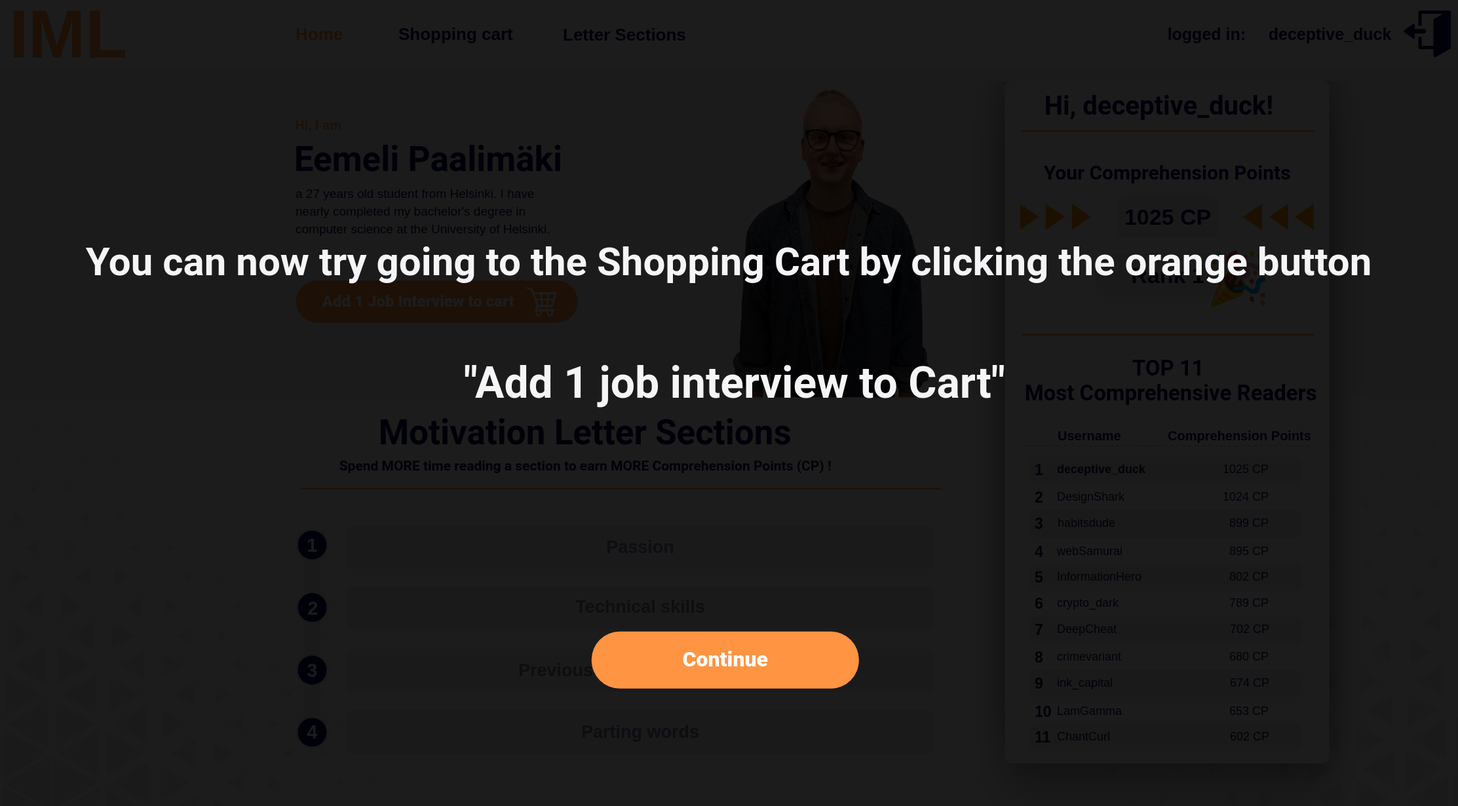
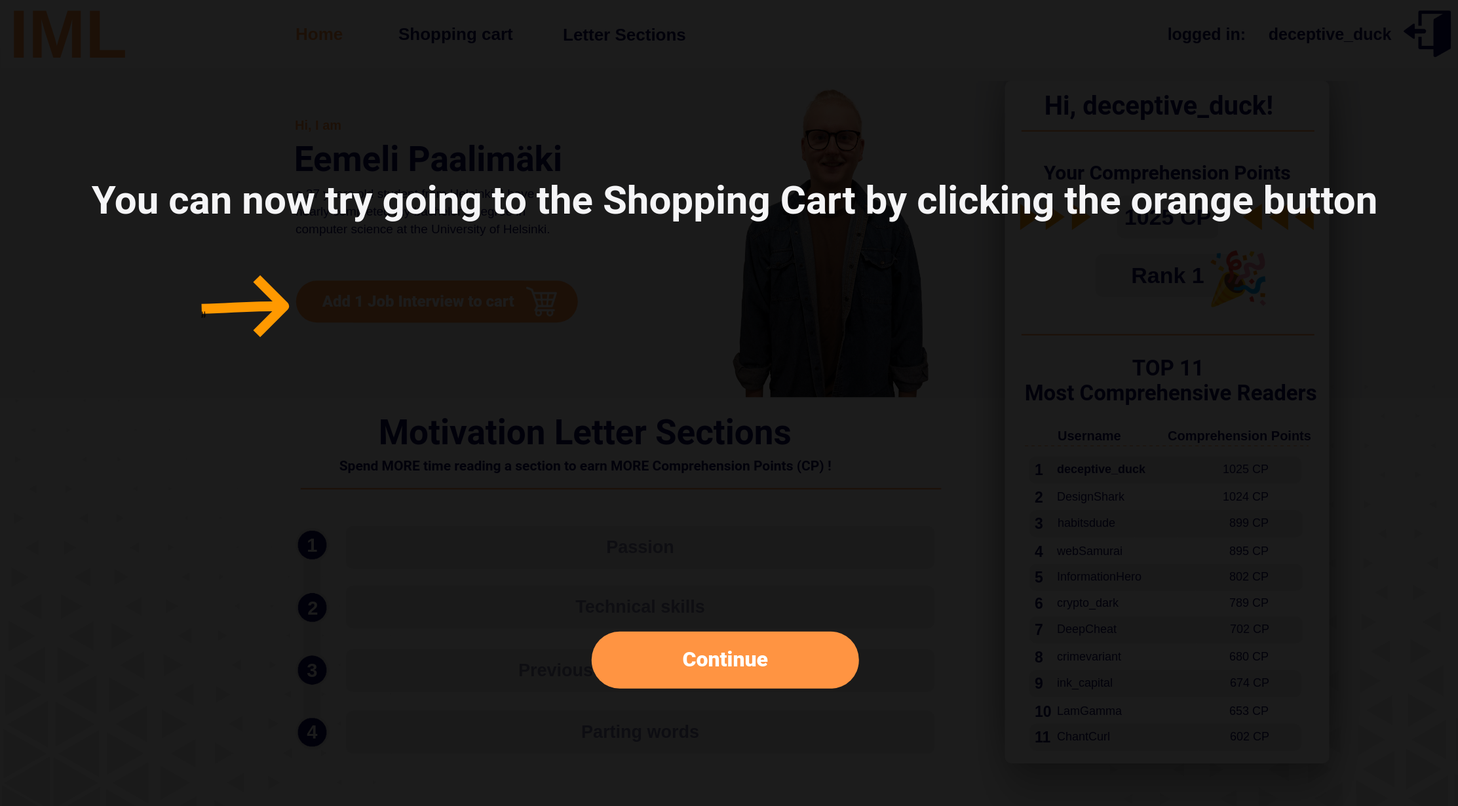
Add ending page

Changed region(s): [[0.062, 0.2163, 0.9613, 0.278], [0.062, 0.3089, 0.9613, 0.4325], [0.3101, 0.4325, 0.6822, 0.4943]]

diff --git a/index.html b/index.html
@@ -1,2 +1,2 @@
 <html xmlns="http://www.w3.org/1999/xhtml" xmlns:p="http://www.evolus.vn/Namespace/Pencil" xmlns:html="http://www.w3.org/1999/xhtml"><head><meta http-equiv="Content-Type" content="text/html; charset=UTF-8" />
-<title>mockup-project</title><link rel="stylesheet" href="Resources/style.css" /><script type="application/javascript" src="Resources/script.js"></script></head><body><h1 id="documentTitle">mockup-project</h1><p id="documentMetadata">Exported at: Mon Jan 22 2024 19:30:17 GMT+0200 (Eastern European Standard Time)</p><div class="Page" id="starting_page_page"><h2>Starting page</h2><div class="ImageContainer"><img src="pages/starting_page.png" width="2222" height="1230" usemap="#map_starting_page" /></div><map name="map_starting_page"><area shape="rect" coords="946.8125,771.5625,1275.5625,901.5625" href="#initialwords_page" title="Go to page 'initial_words'" /></map></div><div class="Page" id="initialwords_page"><h2>initial_words</h2><div class="ImageContainer"><img src="pages/initialwords.png" width="2222" height="1230" usemap="#map_initialwords" /></div><map name="map_initialwords"><area shape="rect" coords="930.9375,823.6875,1422.9375,869.6875" href="#initialwordscontinue_page" title="Go to page 'initial_words_continue'" /><area shape="rect" coords="838.75,812.1875,908.8125,882.25" href="#initialwordscontinue_page" title="Go to page 'initial_words_continue'" /></map></div><div class="Page" id="initialwordscontinue_page"><h2>initial_words_continue</h2><div class="ImageContainer"><img src="pages/initialwordscontinue.png" width="2222" height="1230" usemap="#map_initialwordscontinue" /></div><map name="map_initialwordscontinue"><area shape="rect" coords="846.48876953125,822.22314453125,899.608764648438,872.783142089844" href="#initialwords_page" title="Go to page 'initial_words'" /><area shape="rect" coords="930.9375,823.6875,1422.9375,869.6875" href="#initialwords_page" title="Go to page 'initial_words'" /><area shape="rect" coords="984.25,978,1236.75,1079.25" href="#createanewuser_page" title="Go to page 'create_a_new_user'" /></map></div><div class="Page" id="createanewuser_page"><h2>create_a_new_user</h2><div class="ImageContainer"><img src="pages/createanewuser.png" width="2222" height="1230" usemap="#map_createanewuser" /></div><map name="map_createanewuser"><area shape="rect" coords="770.625,822.5,1180.625,861.5" href="#createanewuserautofill_page" title="Go to page 'create_a_new_user_auto_fill'" /><area shape="rect" coords="771.625,722.5,1181.625,761.5" href="#createanewuserautofill_page" title="Go to page 'create_a_new_user_auto_fill'" /><area shape="rect" coords="771.625,630.5,1181.625,669.5" href="#createanewuserautofill_page" title="Go to page 'create_a_new_user_auto_fill'" /><area shape="rect" coords="771.625,540.5,1181.625,579.5" href="#createanewuserautofill_page" title="Go to page 'create_a_new_user_auto_fill'" /><area shape="rect" coords="771.625,448.5,1181.625,487.5" href="#createanewuserautofill_page" title="Go to page 'create_a_new_user_auto_fill'" /><area shape="rect" coords="771.625,348.5,1181.625,387.5" href="#createanewuserautofill_page" title="Go to page 'create_a_new_user_auto_fill'" /><area shape="rect" coords="771.625,256.5,1181.625,295.5" href="#createanewuserautofill_page" title="Go to page 'create_a_new_user_auto_fill'" /></map></div><div class="Page" id="createanewuserautofill_page"><h2>create_a_new_user_auto_fill</h2><div class="ImageContainer"><img src="pages/createanewuserautofill.png" width="2222" height="1230" usemap="#map_createanewuserautofill" /></div><map name="map_createanewuserautofill"><area shape="rect" coords="1201.5,247.5,1413.5,327.5" href="#createanewuserfilled_page" title="Go to page 'create_a_new_user_FILLED'" /></map></div><div class="Page" id="createanewuserfilled_page"><h2>create_a_new_user_FILLED</h2><div class="ImageContainer"><img src="pages/createanewuserfilled.png" width="2222" height="1230" usemap="#map_createanewuserfilled" /></div><map name="map_createanewuserfilled"><area shape="rect" coords="829.48876953125,929.22314453125,866.48876953125,961.22314453125" href="#initialwords_page" title="Go to page 'initial_words'" /><area shape="rect" coords="897.9375,907.6875,1389.9375,981.6875" href="#createanewuserfilleduncheck_page" title="Go to page 'create_a_new_user_FILLED_uncheck'" /><area shape="rect" coords="817.75,917.1875,877.75,972.1875" href="#createanewuserfilleduncheck_page" title="Go to page 'create_a_new_user_FILLED_uncheck'" /><area shape="rect" coords="986.25,1021,1238.75,1122.25" href="#log_in_page" title="Go to page 'log in'" /></map></div><div class="Page" id="createanewuserfilleduncheck_page"><h2>create_a_new_user_FILLED_uncheck</h2><div class="ImageContainer"><img src="pages/createanewuserfilleduncheck.png" width="2222" height="1230" usemap="#map_createanewuserfilleduncheck" /></div><map name="map_createanewuserfilleduncheck"><area shape="rect" coords="897.9375,907.6875,1389.9375,981.6875" href="#createanewuserfilled_page" title="Go to page 'create_a_new_user_FILLED'" /><area shape="rect" coords="817.75,917.1875,877.75,972.1875" href="#createanewuserfilled_page" title="Go to page 'create_a_new_user_FILLED'" /><area shape="rect" coords="986.25,1021,1238.75,1122.25" href="#log_in_page" title="Go to page 'log in'" /></map></div><div class="Page" id="log_in_page"><h2>log in</h2><div class="ImageContainer"><img src="pages/log_in.png" width="2222" height="1230" usemap="#map_log_in" /></div><map name="map_log_in"><area shape="rect" coords="984.25,708,1236.75,809.25" href="#tutorial1_page" title="Go to page 'Tutorial1'" /></map></div><div class="Page" id="tutorial1_page"><h2>Tutorial1</h2><div class="ImageContainer"><img src="pages/tutorial1.png" width="2225" height="1230" usemap="#map_tutorial1" /></div><map name="map_tutorial1"><area shape="rect" coords="864.75,629,1380.75,730" href="#tutorial2_page" title="Go to page 'Tutorial2'" /></map></div><div class="Page" id="tutorial2_page"><h2>Tutorial2</h2><div class="ImageContainer"><img src="pages/tutorial2.png" width="2225" height="1230" usemap="#map_tutorial2" /></div><map name="map_tutorial2"><area shape="rect" coords="1593.75,253,2109.75,354" href="#tutorial3_page" title="Go to page 'Tutorial3'" /></map></div><div class="Page" id="tutorial3_page"><h2>Tutorial3</h2><div class="ImageContainer"><img src="pages/tutorial3.png" width="2225" height="1230" usemap="#map_tutorial3" /></div><map name="map_tutorial3"><area shape="rect" coords="626.75,637,1142.75,738" href="#tutorial4_page" title="Go to page 'Tutorial4'" /></map></div><div class="Page" id="tutorial4_page"><h2>Tutorial4</h2><div class="ImageContainer"><img src="pages/tutorial4.png" width="2225" height="1230" usemap="#map_tutorial4" /></div><map name="map_tutorial4"><area shape="rect" coords="1317.75,916,1833.75,1017" href="#tutorial5_page" title="Go to page 'Tutorial5'" /></map></div><div class="Page" id="tutorial5_page"><h2>Tutorial5</h2><div class="ImageContainer"><img src="pages/tutorial5.png" width="2225" height="1230" usemap="#map_tutorial5" /></div><map name="map_tutorial5"><area shape="rect" coords="1432.75,690,1948.75,791" href="#tutorial6_page" title="Go to page 'Tutorial6'" /></map></div><div class="Page" id="tutorial6_page"><h2>Tutorial6</h2><div class="ImageContainer"><img src="pages/tutorial6.png" width="2225" height="1230" usemap="#map_tutorial6" /></div><map name="map_tutorial6"><area shape="rect" coords="832.75,709,1348.75,810" href="#home1_page" title="Go to page 'Home1'" /></map></div><div class="Page" id="home1_page"><h2>Home1</h2><div class="ImageContainer"><img src="pages/home1.png" width="2225" height="1230" usemap="#map_home1" /></div><map name="map_home1"><area shape="rect" coords="525,799.75,1429,870.75" href="#letter_passion_page" title="Go to page 'Letter Passion'" /></map></div><div class="Page" id="letter_passion_page"><h2>Letter Passion</h2><div class="ImageContainer"><img src="pages/letter_passion.png" width="2225" height="1230" usemap="#map_letter_passion" /></div><map name="map_letter_passion"><area shape="rect" coords="980.75,1090.25,1251,1160.25" href="#home21_page" title="Go to page 'Home2.1'" /></map></div><div class="Page" id="home21_page"><h2>Home2.1</h2><div class="ImageContainer"><img src="pages/home21.png" width="2225" height="1230" usemap="#map_home21" /></div><map name="map_home21"><area shape="rect" coords="956.75,888.75,1370.75,981.25" href="#home22_page" title="Go to page 'Home2.2'" /></map></div><div class="Page" id="home22_page"><h2>Home2.2</h2><div class="ImageContainer"><img src="pages/home22.png" width="2225" height="1230" usemap="#map_home22" /></div><map name="map_home22"><area shape="rect" coords="525,890.75,1429,961.75" href="#letter_tech_page" title="Go to page 'Letter Tech'" /></map></div><div class="Page" id="letter_tech_page"><h2>Letter Tech</h2><div class="ImageContainer"><img src="pages/letter_tech.png" width="2225" height="1230" usemap="#map_letter_tech" /></div><map name="map_letter_tech"><area shape="rect" coords="980.75,1090.25,1251,1160.25" href="#home31_page" title="Go to page 'Home3.1'" /></map></div><div class="Page" id="home31_page"><h2>Home3.1</h2><div class="ImageContainer"><img src="pages/home31.png" width="2225" height="1230" usemap="#map_home31" /></div><map name="map_home31"><area shape="rect" coords="930.75,812.75,1344.75,905.25" href="#home32_page" title="Go to page 'Home3.2'" /></map></div><div class="Page" id="home32_page"><h2>Home3.2</h2><div class="ImageContainer"><img src="pages/home32.png" width="2225" height="1230" usemap="#map_home32" /></div><map name="map_home32"><area shape="rect" coords="525,987.75,1429,1058.75" href="#letter_soft_page" title="Go to page 'Letter Soft'" /></map></div><div class="Page" id="letter_soft_page"><h2>Letter Soft</h2><div class="ImageContainer"><img src="pages/letter_soft.png" width="2225" height="1230" usemap="#map_letter_soft" /></div><map name="map_letter_soft"><area shape="rect" coords="980.75,1090.25,1251,1160.25" href="#home41_page" title="Go to page 'Home4.1'" /></map></div><div class="Page" id="home41_page"><h2>Home4.1</h2><div class="ImageContainer"><img src="pages/home41.png" width="2225" height="1230" usemap="#map_home41" /></div><map name="map_home41"><area shape="rect" coords="908.75,799.75,1322.75,892.25" href="#home42_page" title="Go to page 'Home4.2'" /></map></div><div class="Page" id="home42_page"><h2>Home4.2</h2><div class="ImageContainer"><img src="pages/home42.png" width="2225" height="1230" usemap="#map_home42" /></div><map name="map_home42"><area shape="rect" coords="525,1081.75,1429,1152.75" href="#letter_end_page" title="Go to page 'Letter End'" /></map></div><div class="Page" id="letter_end_page"><h2>Letter End</h2><div class="ImageContainer"><img src="pages/letter_end.png" width="2225" height="1230" usemap="#map_letter_end" /></div><map name="map_letter_end"><area shape="rect" coords="980.75,1090.25,1251,1160.25" href="#home51_page" title="Go to page 'Home5.1'" /></map></div><div class="Page" id="home51_page"><h2>Home5.1</h2><div class="ImageContainer"><img src="pages/home51.png" width="2225" height="1230" usemap="#map_home51" /></div><map name="map_home51"><area shape="rect" coords="899.75,960.75,1313.75,1053.25" href="#home52_page" title="Go to page 'Home5.2'" /></map></div><div class="Page" id="home52_page"><h2>Home5.2</h2><div class="ImageContainer"><img src="pages/home52.png" width="2225" height="1230" usemap="#map_home52" /></div><map name="map_home52"><area shape="rect" coords="899.75,960.75,1313.75,1053.25" href="#home53_page" title="Go to page 'Home5.3'" /></map></div><div class="Page" id="home53_page"><h2>Home5.3</h2><div class="ImageContainer"><img src="pages/home53.png" width="2225" height="1230" usemap="#map_home53" /></div><map name="map_home53"><area shape="rect" coords="525,1081.75,1429,1152.75" href="#letter_end_done_page" title="Go to page 'Letter End DONE'" /><area shape="rect" coords="525,987.75,1429,1058.75" href="#letter_soft_done_page" title="Go to page 'Letter Soft DONE'" /><area shape="rect" coords="525,890.75,1429,961.75" href="#letter_tech_done_page" title="Go to page 'Letter Tech DONE'" /><area shape="rect" coords="525,799.75,1429,870.75" href="#letter_passion_done_page" title="Go to page 'Letter Passion DONE'" /><area shape="rect" coords="448.75,425.25,884.75,495.25" href="#shopping_cart_page" title="Go to page 'Shopping Cart'" /></map></div><div class="Page" id="letter_passion_done_page"><h2>Letter Passion DONE</h2><div class="ImageContainer"><img src="pages/letter_passion_done.png" width="2225" height="1230" usemap="#map_letter_passion_done" /></div><map name="map_letter_passion_done"><area shape="rect" coords="980.75,1090.25,1251,1160.25" href="#home53_page" title="Go to page 'Home5.3'" /></map></div><div class="Page" id="letter_tech_done_page"><h2>Letter Tech DONE</h2><div class="ImageContainer"><img src="pages/letter_tech_done.png" width="2225" height="1230" usemap="#map_letter_tech_done" /></div><map name="map_letter_tech_done"><area shape="rect" coords="980.75,1090.25,1251,1160.25" href="#home53_page" title="Go to page 'Home5.3'" /></map></div><div class="Page" id="letter_soft_done_page"><h2>Letter Soft DONE</h2><div class="ImageContainer"><img src="pages/letter_soft_done.png" width="2225" height="1230" usemap="#map_letter_soft_done" /></div><map name="map_letter_soft_done"><area shape="rect" coords="980.75,1090.25,1251,1160.25" href="#home53_page" title="Go to page 'Home5.3'" /></map></div><div class="Page" id="letter_end_done_page"><h2>Letter End DONE</h2><div class="ImageContainer"><img src="pages/letter_end_done.png" width="2225" height="1230" usemap="#map_letter_end_done" /></div><map name="map_letter_end_done"><area shape="rect" coords="980.75,1090.25,1251,1160.25" href="#home53_page" title="Go to page 'Home5.3'" /></map></div><div class="Page" id="home54_page"><h2>Home5.4</h2><div class="ImageContainer"><img src="pages/home54.png" width="2225" height="1230" usemap="#map_home54" /></div><map name="map_home54"><area shape="rect" coords="892.75,752.75,1306.75,845.25" href="#home55_page" title="Go to page 'Home5.5'" /><area shape="rect" coords="2139.125,12.625,2217.25,90.7500152587891" href="#logout1_page" title="Go to page 'Logout1'" /></map></div><div class="Page" id="home55_page"><h2>Home5.5</h2><div class="ImageContainer"><img src="pages/home55.png" width="2225" height="1230" usemap="#map_home55" /></div><map name="map_home55"><area shape="rect" coords="525,1081.75,1429,1152.75" href="#letter_end_done_page" title="Go to page 'Letter End DONE'" /><area shape="rect" coords="525,987.75,1429,1058.75" href="#letter_soft_done_page" title="Go to page 'Letter Soft DONE'" /><area shape="rect" coords="525,890.75,1429,961.75" href="#letter_tech_done_page" title="Go to page 'Letter Tech DONE'" /><area shape="rect" coords="525,799.75,1429,870.75" href="#letter_passion_done_page" title="Go to page 'Letter Passion DONE'" /><area shape="rect" coords="448.75,425.25,884.75,495.25" href="#shopping_cart_page" title="Go to page 'Shopping Cart'" /><area shape="rect" coords="2139.125,12.625,2217.25,90.7500152587891" href="#logout1_page" title="Go to page 'Logout1'" /></map></div><div class="Page" id="shopping_cart_page"><h2>Shopping Cart</h2><div class="ImageContainer"><img src="pages/shopping_cart.png" width="2225" height="1230" usemap="#map_shopping_cart" /></div><map name="map_shopping_cart"><area shape="rect" coords="1179.75,377.25,1495.75,447.25" href="#cart_delete_page" title="Go to page 'Cart delete'" /><area shape="rect" coords="1582.75,476,1883.75,537" href="#normal_checkout_page" title="Go to page 'Normal Checkout'" /><area shape="rect" coords="2139.125,12.625,2217.25,90.7500152587891" href="#logout1_page" title="Go to page 'Logout1'" /></map></div><div class="Page" id="normal_checkout_page"><h2>Normal Checkout</h2><div class="ImageContainer"><img src="pages/normal_checkout.png" width="2225" height="1230" usemap="#map_normal_checkout" /></div><map name="map_normal_checkout"><area shape="rect" coords="900.5,780.75,1315.25,863" href="#purchased_page" title="Go to page 'Purchased'" /><area shape="rect" coords="671.5,1130.3125,735,1164.3125" href="#shopping_cart_page" title="Go to page 'Shopping Cart'" /></map></div><div class="Page" id="cart_delete_page"><h2>Cart delete</h2><div class="ImageContainer"><img src="pages/cart_delete.png" width="2225" height="1230" usemap="#map_cart_delete" /></div><map name="map_cart_delete"><area shape="rect" coords="671.5,1143.3125,809.231994628906,1177.3125" href="#deleted_item_page" title="Go to page 'Deleted Item'" /><area shape="rect" coords="947.75,825.25,1263.75,895.25" href="#shopping_cart_page" title="Go to page 'Shopping Cart'" /></map></div><div class="Page" id="deleted_item_page"><h2>Deleted Item</h2><div class="ImageContainer"><img src="pages/deleted_item.png" width="2225" height="1230" usemap="#map_deleted_item" /></div><map name="map_deleted_item"><area shape="rect" coords="1501.75,1073.25,1742.75,1143.25" href="#shopping_cart_page" title="Go to page 'Shopping Cart'" /><area shape="rect" coords="1582.75,476,1883.75,537" href="#deleted_checkout_page" title="Go to page 'Deleted Checkout'" /><area shape="rect" coords="2139.125,12.625,2217.25,90.7500152587891" href="#logout1_page" title="Go to page 'Logout1'" /></map></div><div class="Page" id="deleted_checkout_page"><h2>Deleted Checkout</h2><div class="ImageContainer"><img src="pages/deleted_checkout.png" width="2225" height="1230" usemap="#map_deleted_checkout" /></div><map name="map_deleted_checkout"><area shape="rect" coords="893.5,623.75,1308.25,706" href="#purchased_page" title="Go to page 'Purchased'" /><area shape="rect" coords="676.5,1143.3125,740,1177.3125" href="#deleted_item_page" title="Go to page 'Deleted Item'" /><area shape="rect" coords="1501.75,1073.25,1742.75,1143.25" href="#shopping_cart_page" title="Go to page 'Shopping Cart'" /></map></div><div class="Page" id="purchased_page"><h2>Purchased</h2><div class="ImageContainer"><img src="pages/purchased.png" width="2225" height="1230" usemap="#map_purchased" /></div><map name="map_purchased"><area shape="rect" coords="796.75,1014,1392.75,1130" href="#home54_page" title="Go to page 'Home5.4'" /></map></div><div class="Page" id="logout1_page"><h2>Logout1</h2><div class="ImageContainer"><img src="pages/logout1.png" width="2225" height="1230" usemap="#map_logout1" /></div><map name="map_logout1"><area shape="rect" coords="884.5,380.3125,951,414.3125" href="#logout2_page" title="Go to page 'Logout2'" /><area shape="rect" coords="1100.75,355.5,1466,439.25" href="#home55_page" title="Go to page 'Home5.5'" /></map></div><div class="Page" id="logout2_page"><h2>Logout2</h2><div class="ImageContainer"><img src="pages/logout2.png" width="2225" height="1230" usemap="#map_logout2" /></div><map name="map_logout2"><area shape="rect" coords="924.5,431.3125,991,465.3125" href="#logout3_page" title="Go to page 'Logout3'" /><area shape="rect" coords="1028.75,343.75,1516.5,451.25" href="#home55_page" title="Go to page 'Home5.5'" /></map></div><div class="Page" id="logout3_page"><h2>Logout3</h2><div class="ImageContainer"><img src="pages/logout3.png" width="2225" height="1230" usemap="#map_logout3" /></div><map name="map_logout3"><area shape="rect" coords="935.75,309.25,1714.75,484.25" href="#home55_page" title="Go to page 'Home5.5'" /><area shape="rect" coords="905.5,320.3125,972,354.3125" href="#starting_page_page" title="Go to page 'Starting page'" /></map></div></body></html>
+<title>mockup-project</title><link rel="stylesheet" href="Resources/style.css" /><script type="application/javascript" src="Resources/script.js"></script></head><body><h1 id="documentTitle">mockup-project</h1><p id="documentMetadata">Exported at: Tue Jan 23 2024 18:44:38 GMT+0200 (Eastern European Standard Time)</p><div class="Page" id="starting_page_page"><h2>Starting page</h2><div class="ImageContainer"><img src="pages/starting_page.png" width="2222" height="1230" usemap="#map_starting_page" /></div><map name="map_starting_page"><area shape="rect" coords="946.8125,771.5625,1275.5625,901.5625" href="#initialwords_page" title="Go to page 'initial_words'" /></map></div><div class="Page" id="initialwords_page"><h2>initial_words</h2><div class="ImageContainer"><img src="pages/initialwords.png" width="2222" height="1230" usemap="#map_initialwords" /></div><map name="map_initialwords"><area shape="rect" coords="930.9375,823.6875,1422.9375,869.6875" href="#initialwordscontinue_page" title="Go to page 'initial_words_continue'" /><area shape="rect" coords="838.75,812.1875,908.8125,882.25" href="#initialwordscontinue_page" title="Go to page 'initial_words_continue'" /></map></div><div class="Page" id="initialwordscontinue_page"><h2>initial_words_continue</h2><div class="ImageContainer"><img src="pages/initialwordscontinue.png" width="2222" height="1230" usemap="#map_initialwordscontinue" /></div><map name="map_initialwordscontinue"><area shape="rect" coords="846.48876953125,822.22314453125,899.608764648438,872.783142089844" href="#initialwords_page" title="Go to page 'initial_words'" /><area shape="rect" coords="930.9375,823.6875,1422.9375,869.6875" href="#initialwords_page" title="Go to page 'initial_words'" /><area shape="rect" coords="984.25,978,1236.75,1079.25" href="#createanewuser_page" title="Go to page 'create_a_new_user'" /></map></div><div class="Page" id="createanewuser_page"><h2>create_a_new_user</h2><div class="ImageContainer"><img src="pages/createanewuser.png" width="2222" height="1230" usemap="#map_createanewuser" /></div><map name="map_createanewuser"><area shape="rect" coords="770.625,822.5,1180.625,861.5" href="#createanewuserautofill_page" title="Go to page 'create_a_new_user_auto_fill'" /><area shape="rect" coords="771.625,722.5,1181.625,761.5" href="#createanewuserautofill_page" title="Go to page 'create_a_new_user_auto_fill'" /><area shape="rect" coords="771.625,630.5,1181.625,669.5" href="#createanewuserautofill_page" title="Go to page 'create_a_new_user_auto_fill'" /><area shape="rect" coords="771.625,540.5,1181.625,579.5" href="#createanewuserautofill_page" title="Go to page 'create_a_new_user_auto_fill'" /><area shape="rect" coords="771.625,448.5,1181.625,487.5" href="#createanewuserautofill_page" title="Go to page 'create_a_new_user_auto_fill'" /><area shape="rect" coords="771.625,348.5,1181.625,387.5" href="#createanewuserautofill_page" title="Go to page 'create_a_new_user_auto_fill'" /><area shape="rect" coords="771.625,256.5,1181.625,295.5" href="#createanewuserautofill_page" title="Go to page 'create_a_new_user_auto_fill'" /></map></div><div class="Page" id="createanewuserautofill_page"><h2>create_a_new_user_auto_fill</h2><div class="ImageContainer"><img src="pages/createanewuserautofill.png" width="2222" height="1230" usemap="#map_createanewuserautofill" /></div><map name="map_createanewuserautofill"><area shape="rect" coords="1201.5,247.5,1413.5,327.5" href="#createanewuserfilled_page" title="Go to page 'create_a_new_user_FILLED'" /></map></div><div class="Page" id="createanewuserfilled_page"><h2>create_a_new_user_FILLED</h2><div class="ImageContainer"><img src="pages/createanewuserfilled.png" width="2222" height="1230" usemap="#map_createanewuserfilled" /></div><map name="map_createanewuserfilled"><area shape="rect" coords="829.48876953125,929.22314453125,866.48876953125,961.22314453125" href="#initialwords_page" title="Go to page 'initial_words'" /><area shape="rect" coords="897.9375,907.6875,1389.9375,981.6875" href="#createanewuserfilleduncheck_page" title="Go to page 'create_a_new_user_FILLED_uncheck'" /><area shape="rect" coords="817.75,917.1875,877.75,972.1875" href="#createanewuserfilleduncheck_page" title="Go to page 'create_a_new_user_FILLED_uncheck'" /><area shape="rect" coords="986.25,1021,1238.75,1122.25" href="#log_in_page" title="Go to page 'log in'" /></map></div><div class="Page" id="createanewuserfilleduncheck_page"><h2>create_a_new_user_FILLED_uncheck</h2><div class="ImageContainer"><img src="pages/createanewuserfilleduncheck.png" width="2222" height="1230" usemap="#map_createanewuserfilleduncheck" /></div><map name="map_createanewuserfilleduncheck"><area shape="rect" coords="897.9375,907.6875,1389.9375,981.6875" href="#createanewuserfilled_page" title="Go to page 'create_a_new_user_FILLED'" /><area shape="rect" coords="817.75,917.1875,877.75,972.1875" href="#createanewuserfilled_page" title="Go to page 'create_a_new_user_FILLED'" /><area shape="rect" coords="986.25,1021,1238.75,1122.25" href="#log_in_page" title="Go to page 'log in'" /></map></div><div class="Page" id="log_in_page"><h2>log in</h2><div class="ImageContainer"><img src="pages/log_in.png" width="2222" height="1230" usemap="#map_log_in" /></div><map name="map_log_in"><area shape="rect" coords="984.25,708,1236.75,809.25" href="#tutorial1_page" title="Go to page 'Tutorial1'" /></map></div><div class="Page" id="tutorial1_page"><h2>Tutorial1</h2><div class="ImageContainer"><img src="pages/tutorial1.png" width="2225" height="1230" usemap="#map_tutorial1" /></div><map name="map_tutorial1"><area shape="rect" coords="864.75,629,1380.75,730" href="#tutorial2_page" title="Go to page 'Tutorial2'" /></map></div><div class="Page" id="tutorial2_page"><h2>Tutorial2</h2><div class="ImageContainer"><img src="pages/tutorial2.png" width="2225" height="1230" usemap="#map_tutorial2" /></div><map name="map_tutorial2"><area shape="rect" coords="1593.75,253,2109.75,354" href="#tutorial3_page" title="Go to page 'Tutorial3'" /></map></div><div class="Page" id="tutorial3_page"><h2>Tutorial3</h2><div class="ImageContainer"><img src="pages/tutorial3.png" width="2225" height="1230" usemap="#map_tutorial3" /></div><map name="map_tutorial3"><area shape="rect" coords="626.75,637,1142.75,738" href="#tutorial4_page" title="Go to page 'Tutorial4'" /></map></div><div class="Page" id="tutorial4_page"><h2>Tutorial4</h2><div class="ImageContainer"><img src="pages/tutorial4.png" width="2225" height="1230" usemap="#map_tutorial4" /></div><map name="map_tutorial4"><area shape="rect" coords="1317.75,916,1833.75,1017" href="#tutorial5_page" title="Go to page 'Tutorial5'" /></map></div><div class="Page" id="tutorial5_page"><h2>Tutorial5</h2><div class="ImageContainer"><img src="pages/tutorial5.png" width="2225" height="1230" usemap="#map_tutorial5" /></div><map name="map_tutorial5"><area shape="rect" coords="1432.75,690,1948.75,791" href="#tutorial6_page" title="Go to page 'Tutorial6'" /></map></div><div class="Page" id="tutorial6_page"><h2>Tutorial6</h2><div class="ImageContainer"><img src="pages/tutorial6.png" width="2225" height="1230" usemap="#map_tutorial6" /></div><map name="map_tutorial6"><area shape="rect" coords="832.75,709,1348.75,810" href="#home1_page" title="Go to page 'Home1'" /></map></div><div class="Page" id="home1_page"><h2>Home1</h2><div class="ImageContainer"><img src="pages/home1.png" width="2225" height="1230" usemap="#map_home1" /></div><map name="map_home1"><area shape="rect" coords="525,799.75,1429,870.75" href="#letter_passion_page" title="Go to page 'Letter Passion'" /></map></div><div class="Page" id="letter_passion_page"><h2>Letter Passion</h2><div class="ImageContainer"><img src="pages/letter_passion.png" width="2225" height="1230" usemap="#map_letter_passion" /></div><map name="map_letter_passion"><area shape="rect" coords="980.75,1090.25,1251,1160.25" href="#home21_page" title="Go to page 'Home2.1'" /></map></div><div class="Page" id="home21_page"><h2>Home2.1</h2><div class="ImageContainer"><img src="pages/home21.png" width="2225" height="1230" usemap="#map_home21" /></div><map name="map_home21"><area shape="rect" coords="956.75,888.75,1370.75,981.25" href="#home22_page" title="Go to page 'Home2.2'" /></map></div><div class="Page" id="home22_page"><h2>Home2.2</h2><div class="ImageContainer"><img src="pages/home22.png" width="2225" height="1230" usemap="#map_home22" /></div><map name="map_home22"><area shape="rect" coords="525,890.75,1429,961.75" href="#letter_tech_page" title="Go to page 'Letter Tech'" /></map></div><div class="Page" id="letter_tech_page"><h2>Letter Tech</h2><div class="ImageContainer"><img src="pages/letter_tech.png" width="2225" height="1230" usemap="#map_letter_tech" /></div><map name="map_letter_tech"><area shape="rect" coords="980.75,1090.25,1251,1160.25" href="#home31_page" title="Go to page 'Home3.1'" /></map></div><div class="Page" id="home31_page"><h2>Home3.1</h2><div class="ImageContainer"><img src="pages/home31.png" width="2225" height="1230" usemap="#map_home31" /></div><map name="map_home31"><area shape="rect" coords="930.75,812.75,1344.75,905.25" href="#home32_page" title="Go to page 'Home3.2'" /></map></div><div class="Page" id="home32_page"><h2>Home3.2</h2><div class="ImageContainer"><img src="pages/home32.png" width="2225" height="1230" usemap="#map_home32" /></div><map name="map_home32"><area shape="rect" coords="525,987.75,1429,1058.75" href="#letter_soft_page" title="Go to page 'Letter Soft'" /></map></div><div class="Page" id="letter_soft_page"><h2>Letter Soft</h2><div class="ImageContainer"><img src="pages/letter_soft.png" width="2225" height="1230" usemap="#map_letter_soft" /></div><map name="map_letter_soft"><area shape="rect" coords="980.75,1090.25,1251,1160.25" href="#home41_page" title="Go to page 'Home4.1'" /></map></div><div class="Page" id="home41_page"><h2>Home4.1</h2><div class="ImageContainer"><img src="pages/home41.png" width="2225" height="1230" usemap="#map_home41" /></div><map name="map_home41"><area shape="rect" coords="908.75,799.75,1322.75,892.25" href="#home42_page" title="Go to page 'Home4.2'" /></map></div><div class="Page" id="home42_page"><h2>Home4.2</h2><div class="ImageContainer"><img src="pages/home42.png" width="2225" height="1230" usemap="#map_home42" /></div><map name="map_home42"><area shape="rect" coords="525,1081.75,1429,1152.75" href="#letter_end_page" title="Go to page 'Letter End'" /></map></div><div class="Page" id="letter_end_page"><h2>Letter End</h2><div class="ImageContainer"><img src="pages/letter_end.png" width="2225" height="1230" usemap="#map_letter_end" /></div><map name="map_letter_end"><area shape="rect" coords="980.75,1090.25,1251,1160.25" href="#home51_page" title="Go to page 'Home5.1'" /></map></div><div class="Page" id="home51_page"><h2>Home5.1</h2><div class="ImageContainer"><img src="pages/home51.png" width="2225" height="1230" usemap="#map_home51" /></div><map name="map_home51"><area shape="rect" coords="899.75,960.75,1313.75,1053.25" href="#home52_page" title="Go to page 'Home5.2'" /></map></div><div class="Page" id="home52_page"><h2>Home5.2</h2><div class="ImageContainer"><img src="pages/home52.png" width="2225" height="1230" usemap="#map_home52" /></div><map name="map_home52"><area shape="rect" coords="899.75,960.75,1313.75,1053.25" href="#home53_page" title="Go to page 'Home5.3'" /></map></div><div class="Page" id="home53_page"><h2>Home5.3</h2><div class="ImageContainer"><img src="pages/home53.png" width="2225" height="1230" usemap="#map_home53" /></div><map name="map_home53"><area shape="rect" coords="525,1081.75,1429,1152.75" href="#letter_end_done_page" title="Go to page 'Letter End DONE'" /><area shape="rect" coords="525,987.75,1429,1058.75" href="#letter_soft_done_page" title="Go to page 'Letter Soft DONE'" /><area shape="rect" coords="525,890.75,1429,961.75" href="#letter_tech_done_page" title="Go to page 'Letter Tech DONE'" /><area shape="rect" coords="525,799.75,1429,870.75" href="#letter_passion_done_page" title="Go to page 'Letter Passion DONE'" /><area shape="rect" coords="448.75,425.25,884.75,495.25" href="#shopping_cart_page" title="Go to page 'Shopping Cart'" /></map></div><div class="Page" id="letter_passion_done_page"><h2>Letter Passion DONE</h2><div class="ImageContainer"><img src="pages/letter_passion_done.png" width="2225" height="1230" usemap="#map_letter_passion_done" /></div><map name="map_letter_passion_done"><area shape="rect" coords="980.75,1090.25,1251,1160.25" href="#home53_page" title="Go to page 'Home5.3'" /></map></div><div class="Page" id="letter_end_done_page"><h2>Letter End DONE</h2><div class="ImageContainer"><img src="pages/letter_end_done.png" width="2225" height="1230" usemap="#map_letter_end_done" /></div><map name="map_letter_end_done"><area shape="rect" coords="980.75,1090.25,1251,1160.25" href="#home53_page" title="Go to page 'Home5.3'" /></map></div><div class="Page" id="letter_tech_done_page"><h2>Letter Tech DONE</h2><div class="ImageContainer"><img src="pages/letter_tech_done.png" width="2225" height="1230" usemap="#map_letter_tech_done" /></div><map name="map_letter_tech_done"><area shape="rect" coords="980.75,1090.25,1251,1160.25" href="#home53_page" title="Go to page 'Home5.3'" /></map></div><div class="Page" id="letter_soft_done_page"><h2>Letter Soft DONE</h2><div class="ImageContainer"><img src="pages/letter_soft_done.png" width="2225" height="1230" usemap="#map_letter_soft_done" /></div><map name="map_letter_soft_done"><area shape="rect" coords="980.75,1090.25,1251,1160.25" href="#home53_page" title="Go to page 'Home5.3'" /></map></div><div class="Page" id="home54_page"><h2>Home5.4</h2><div class="ImageContainer"><img src="pages/home54.png" width="2225" height="1230" usemap="#map_home54" /></div><map name="map_home54"><area shape="rect" coords="892.75,752.75,1306.75,845.25" href="#home55_page" title="Go to page 'Home5.5'" /><area shape="rect" coords="2139.125,12.625,2217.25,90.7500152587891" href="#logout1_page" title="Go to page 'Logout1'" /></map></div><div class="Page" id="home55_page"><h2>Home5.5</h2><div class="ImageContainer"><img src="pages/home55.png" width="2225" height="1230" usemap="#map_home55" /></div><map name="map_home55"><area shape="rect" coords="525,1081.75,1429,1152.75" href="#letter_end_done_page" title="Go to page 'Letter End DONE'" /><area shape="rect" coords="525,987.75,1429,1058.75" href="#letter_soft_done_page" title="Go to page 'Letter Soft DONE'" /><area shape="rect" coords="525,890.75,1429,961.75" href="#letter_tech_done_page" title="Go to page 'Letter Tech DONE'" /><area shape="rect" coords="525,799.75,1429,870.75" href="#letter_passion_done_page" title="Go to page 'Letter Passion DONE'" /><area shape="rect" coords="448.75,425.25,884.75,495.25" href="#shopping_cart_page" title="Go to page 'Shopping Cart'" /><area shape="rect" coords="2139.125,12.625,2217.25,90.7500152587891" href="#logout1_page" title="Go to page 'Logout1'" /></map></div><div class="Page" id="shopping_cart_page"><h2>Shopping Cart</h2><div class="ImageContainer"><img src="pages/shopping_cart.png" width="2225" height="1230" usemap="#map_shopping_cart" /></div><map name="map_shopping_cart"><area shape="rect" coords="1179.75,377.25,1495.75,447.25" href="#cart_delete_page" title="Go to page 'Cart delete'" /><area shape="rect" coords="1582.75,476,1883.75,537" href="#normal_checkout_page" title="Go to page 'Normal Checkout'" /><area shape="rect" coords="2139.125,12.625,2217.25,90.7500152587891" href="#logout1_page" title="Go to page 'Logout1'" /></map></div><div class="Page" id="normal_checkout_page"><h2>Normal Checkout</h2><div class="ImageContainer"><img src="pages/normal_checkout.png" width="2225" height="1230" usemap="#map_normal_checkout" /></div><map name="map_normal_checkout"><area shape="rect" coords="900.5,780.75,1315.25,863" href="#purchased_page" title="Go to page 'Purchased'" /><area shape="rect" coords="671.5,1130.3125,735,1164.3125" href="#shopping_cart_page" title="Go to page 'Shopping Cart'" /></map></div><div class="Page" id="cart_delete_page"><h2>Cart delete</h2><div class="ImageContainer"><img src="pages/cart_delete.png" width="2225" height="1230" usemap="#map_cart_delete" /></div><map name="map_cart_delete"><area shape="rect" coords="671.5,1143.3125,809.231994628906,1177.3125" href="#deleted_item_page" title="Go to page 'Deleted Item'" /><area shape="rect" coords="947.75,825.25,1263.75,895.25" href="#shopping_cart_page" title="Go to page 'Shopping Cart'" /></map></div><div class="Page" id="deleted_item_page"><h2>Deleted Item</h2><div class="ImageContainer"><img src="pages/deleted_item.png" width="2225" height="1230" usemap="#map_deleted_item" /></div><map name="map_deleted_item"><area shape="rect" coords="1501.75,1073.25,1742.75,1143.25" href="#shopping_cart_page" title="Go to page 'Shopping Cart'" /><area shape="rect" coords="1582.75,476,1883.75,537" href="#deleted_checkout_page" title="Go to page 'Deleted Checkout'" /><area shape="rect" coords="2139.125,12.625,2217.25,90.7500152587891" href="#logout1_page" title="Go to page 'Logout1'" /></map></div><div class="Page" id="deleted_checkout_page"><h2>Deleted Checkout</h2><div class="ImageContainer"><img src="pages/deleted_checkout.png" width="2225" height="1230" usemap="#map_deleted_checkout" /></div><map name="map_deleted_checkout"><area shape="rect" coords="893.5,623.75,1308.25,706" href="#purchased_page" title="Go to page 'Purchased'" /><area shape="rect" coords="676.5,1143.3125,740,1177.3125" href="#deleted_item_page" title="Go to page 'Deleted Item'" /><area shape="rect" coords="1501.75,1073.25,1742.75,1143.25" href="#shopping_cart_page" title="Go to page 'Shopping Cart'" /></map></div><div class="Page" id="purchased_page"><h2>Purchased</h2><div class="ImageContainer"><img src="pages/purchased.png" width="2225" height="1230" usemap="#map_purchased" /></div><map name="map_purchased"><area shape="rect" coords="796.75,1014,1392.75,1130" href="#home54_page" title="Go to page 'Home5.4'" /></map></div><div class="Page" id="logout1_page"><h2>Logout1</h2><div class="ImageContainer"><img src="pages/logout1.png" width="2225" height="1230" usemap="#map_logout1" /></div><map name="map_logout1"><area shape="rect" coords="884.5,380.3125,951,414.3125" href="#logout2_page" title="Go to page 'Logout2'" /><area shape="rect" coords="1100.75,355.5,1466,439.25" href="#home55_page" title="Go to page 'Home5.5'" /></map></div><div class="Page" id="logout2_page"><h2>Logout2</h2><div class="ImageContainer"><img src="pages/logout2.png" width="2225" height="1230" usemap="#map_logout2" /></div><map name="map_logout2"><area shape="rect" coords="924.5,431.3125,991,465.3125" href="#logout3_page" title="Go to page 'Logout3'" /><area shape="rect" coords="1028.75,343.75,1516.5,451.25" href="#home55_page" title="Go to page 'Home5.5'" /></map></div><div class="Page" id="logout3_page"><h2>Logout3</h2><div class="ImageContainer"><img src="pages/logout3.png" width="2225" height="1230" usemap="#map_logout3" /></div><map name="map_logout3"><area shape="rect" coords="935.75,309.25,1714.75,484.25" href="#home55_page" title="Go to page 'Home5.5'" /><area shape="rect" coords="905.5,320.3125,972,354.3125" href="#end_page_page" title="Go to page 'End page'" /></map></div><div class="Page" id="end_page_page"><h2>End page</h2><div class="ImageContainer"><img src="pages/end_page.png" width="2222" height="1230" usemap="#map_end_page" /></div><map name="map_end_page"><area shape="rect" coords="457.0625,910.5625,914.5625,1044.3125" href="#starting_page_page" title="Go to page 'Starting page'" /></map></div></body></html>
